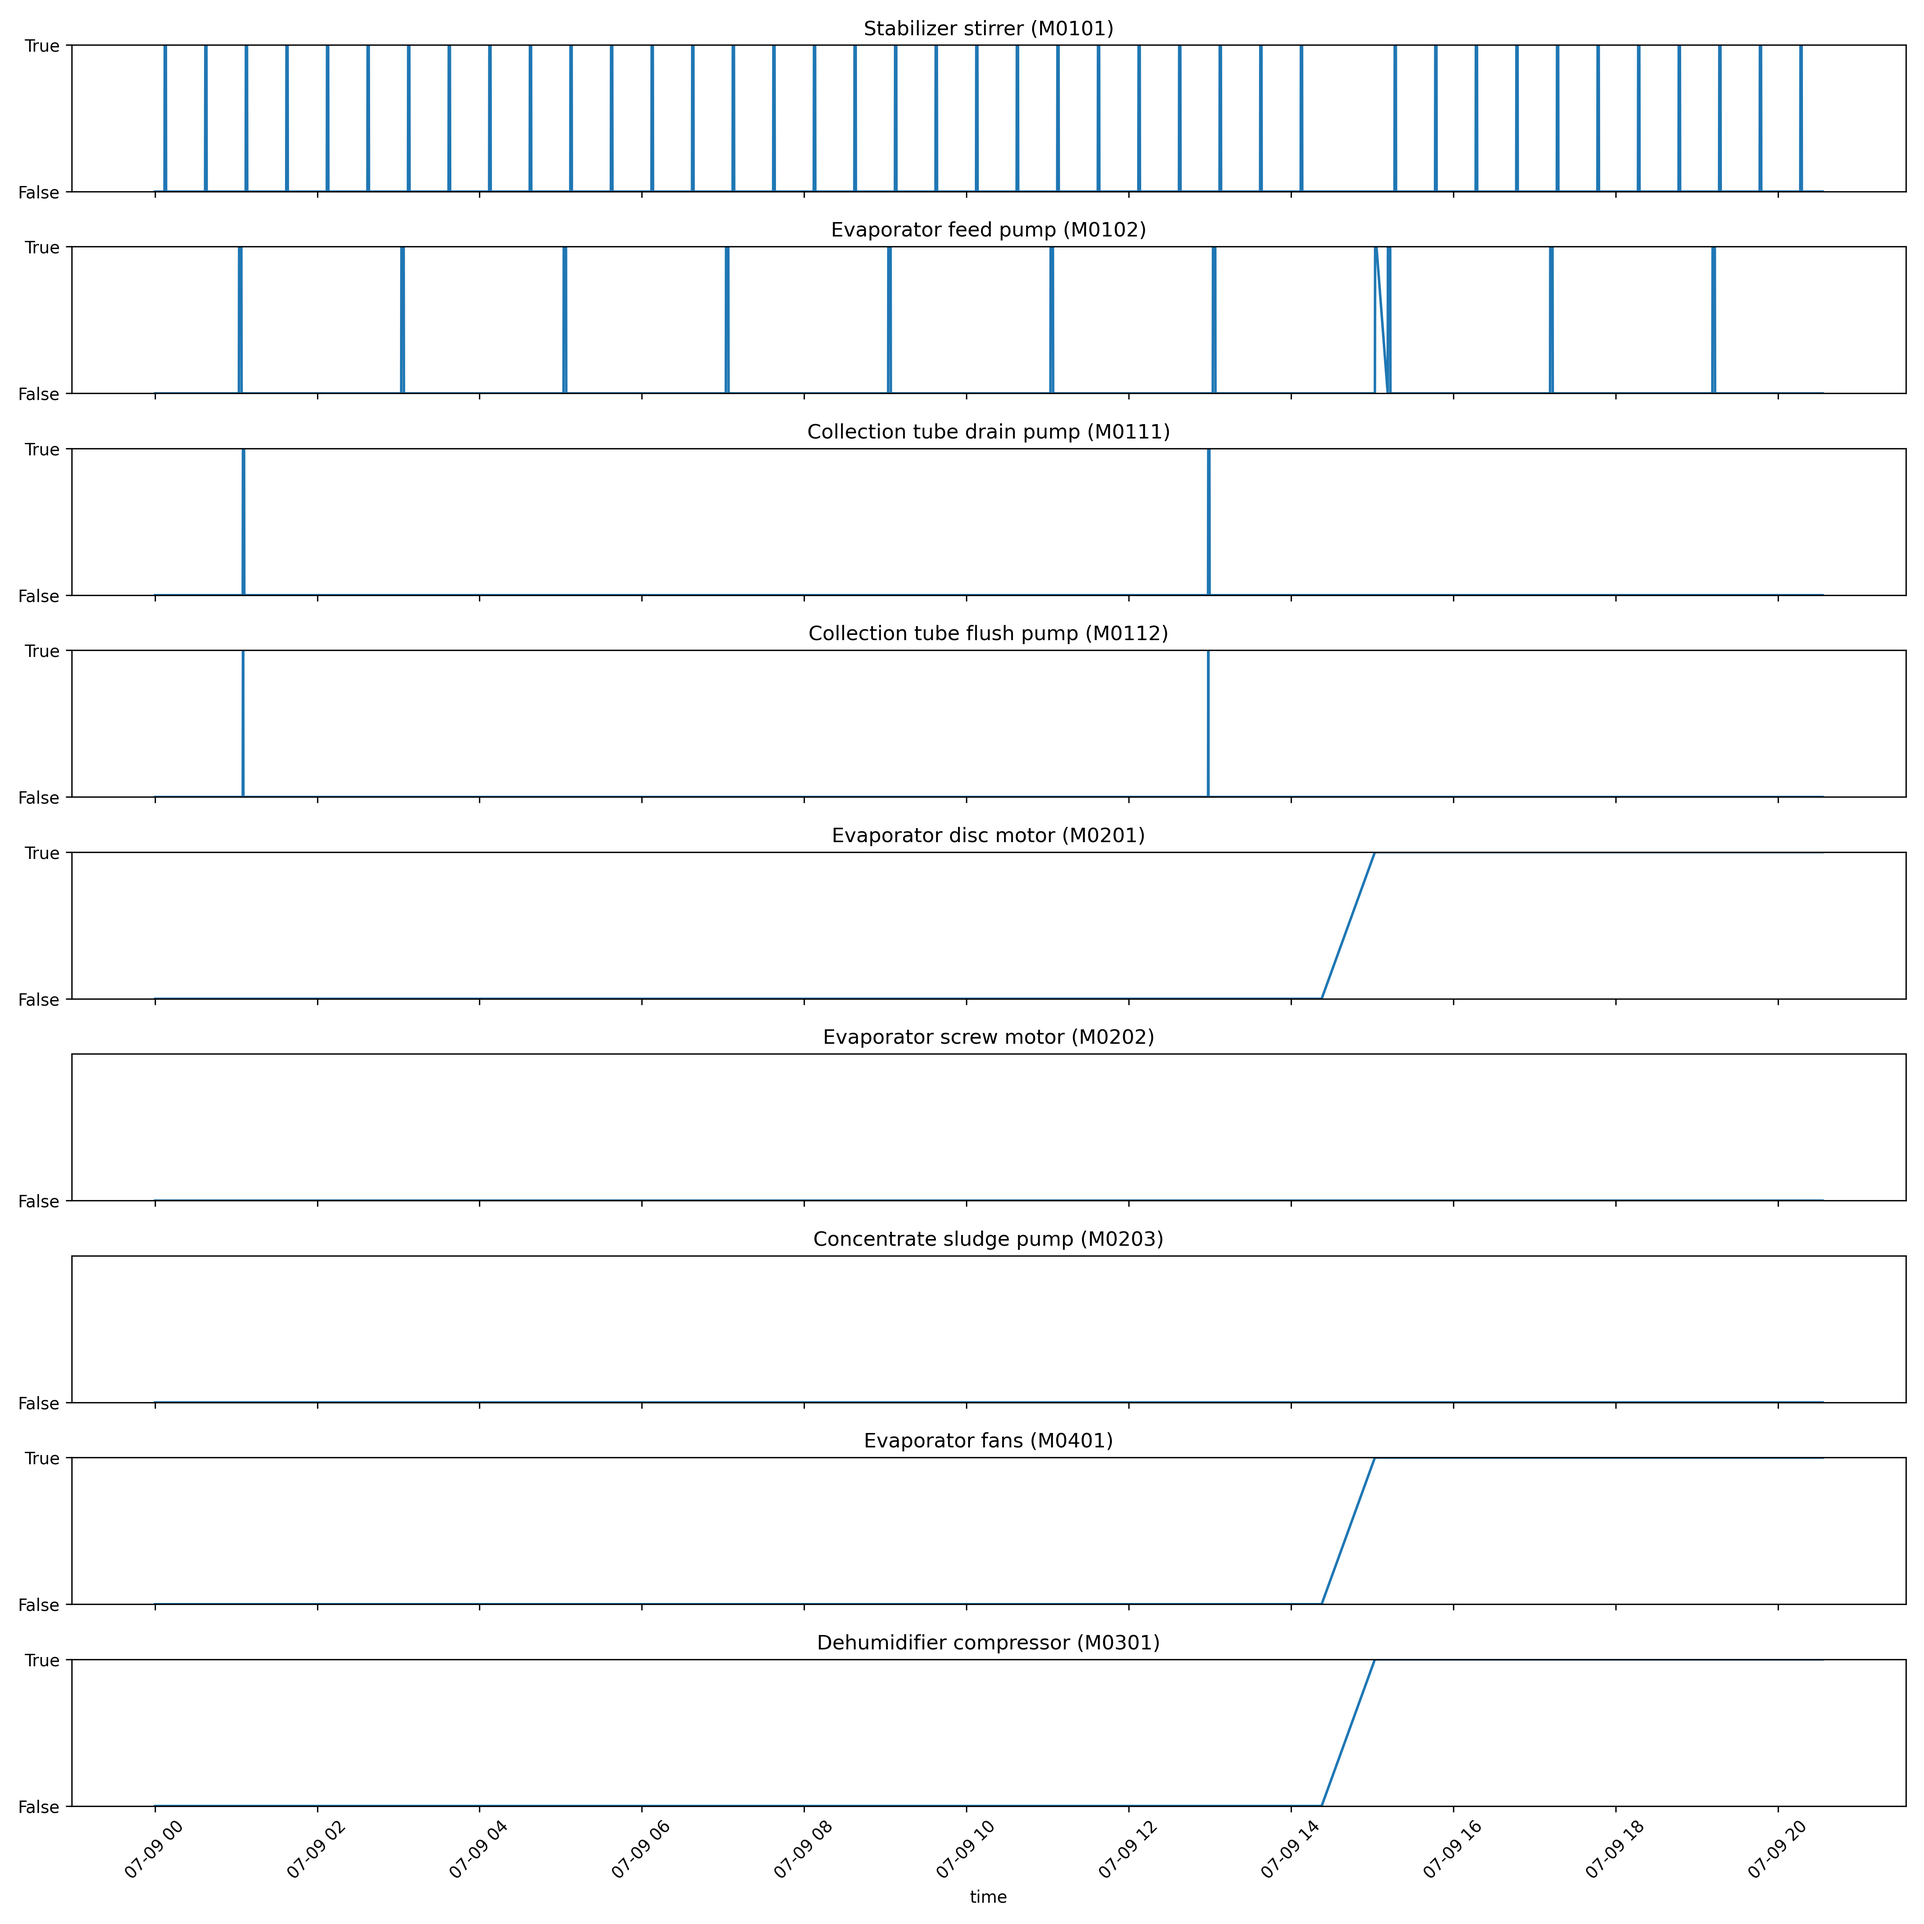
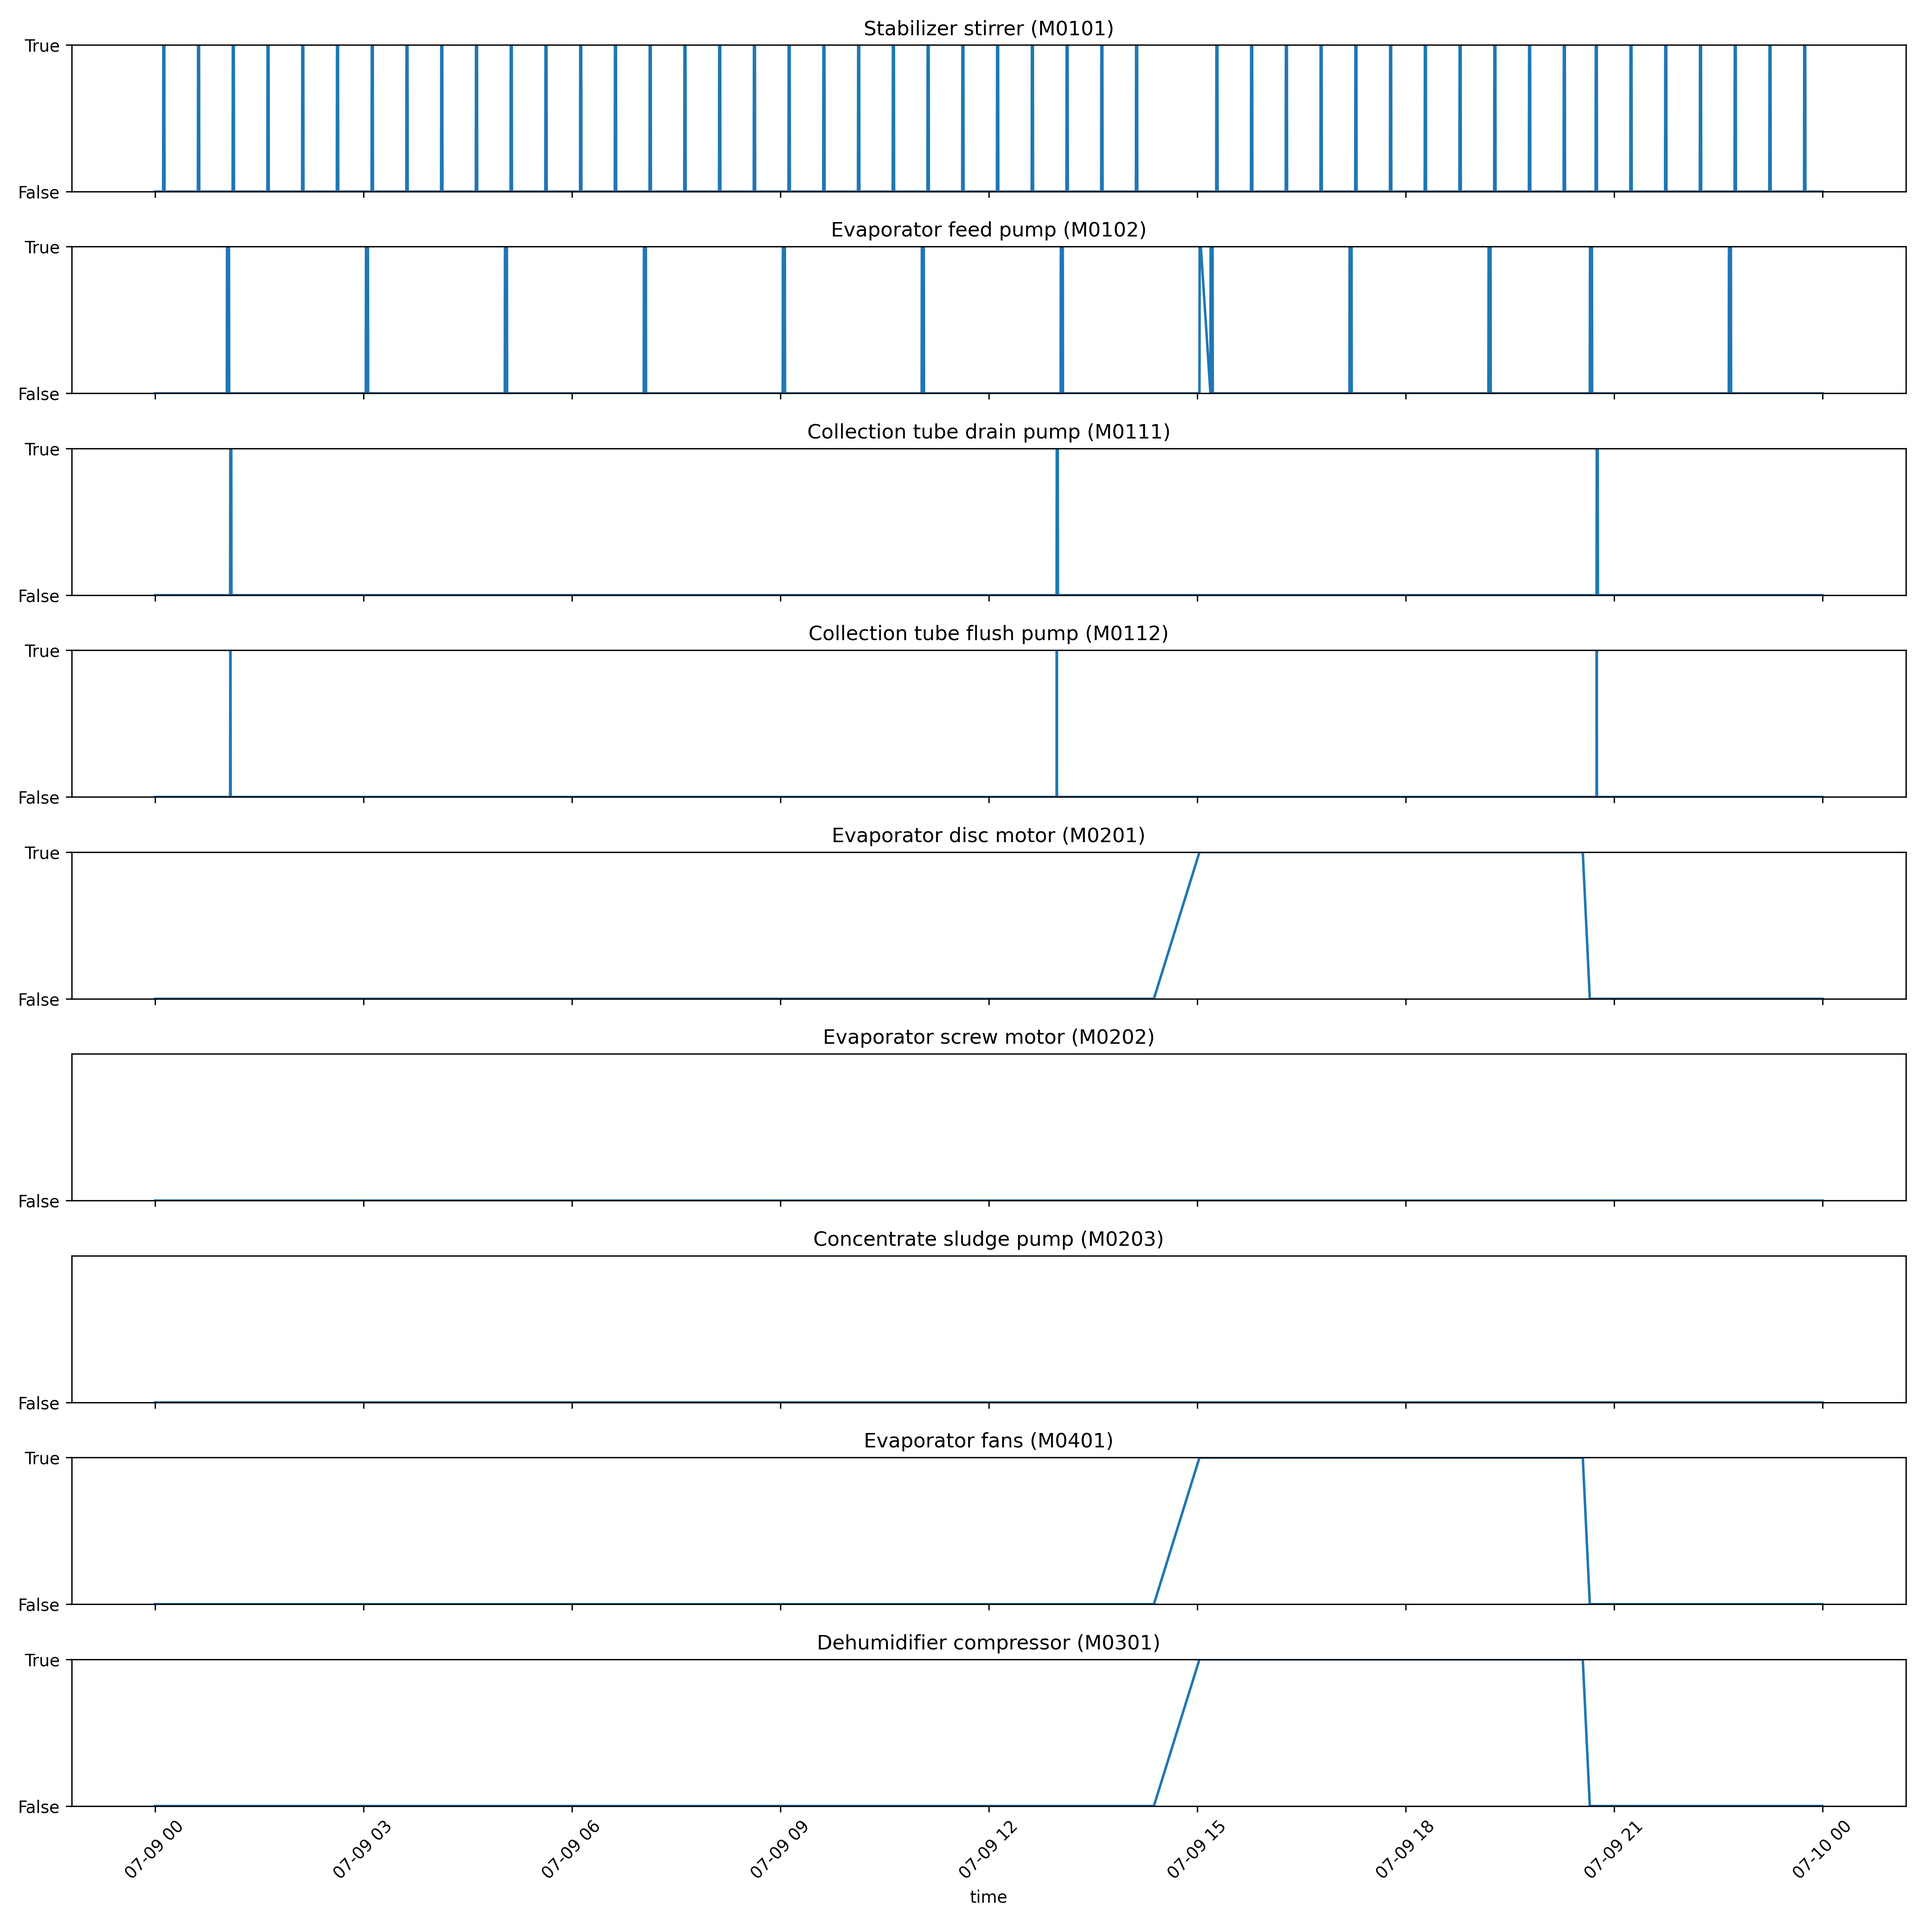
added duty cycle for evaporation process

diff --git a/src/routines.py b/src/routines.py
@@ -51,6 +51,9 @@ class routines:
         self.evaporation_running           = False
         self.concentrate_discharge_running = False
 
+        # timer for evaporation duty cycle
+        self.evaporation_start_time = -1000.0
+
         # state tracker for observer
         self.observer_states = {}
 
@@ -383,6 +386,8 @@ class routines:
             # read up-to-date control parameters (do this here in case parameters have been changed in toml file during program run)
             pl = self.load_parameter_list()
             threshold_min_B0201 = float(pl.get("threshold_min_B0201"))
+            tau_M0201_runtime   = float(pl.get("tau_M0201_runtime"))
+            tau_M0201_interval = float(pl.get("tau_M0201_interval"))
 
             # get instance of required S&A
             act_M0201 = actuators[actuator_name_list.index("M0201")]
@@ -391,9 +396,12 @@ class routines:
             sen_B0201 = sensors[sensor_name_list.index("B0201")]
             sen_BM201 = sensors[sensor_name_list.index("BM201")]
 
-            current_runtime = time.time() - (self.start_time + self.initial_wait_time)
-            if sen_B0201.value > threshold_min_B0201 and not(self.evaporation_running):
-                # print(f"[Control] Evaporation process running at runtime: {current_runtime:.2f}s")
+            current_runtime = time.time() - self.evaporation_start_time
+            evap_duty_cycle = int(current_runtime/tau_M0201_runtime) % int(tau_M0201_interval/tau_M0201_runtime) == 0
+            if sen_B0201.value > threshold_min_B0201 and not(self.evaporation_running) and evap_duty_cycle:
+
+                # start timer for evaporation duty cycle
+                self.evaporation_start_time = time.time()
 
                 # Turn actuators ON (depending on over-current management settings)
                 if sen_BM201.value == False:
@@ -412,7 +420,7 @@ class routines:
                 print("Evaporation process started")
 
             # hysteresis control for turning evaporation off to avoid state flickering
-            elif sen_B0201.value < threshold_min_B0201 - 1.0 and self.evaporation_running:
+            elif (sen_B0201.value < threshold_min_B0201 - 1.0 and self.evaporation_running) or not(evap_duty_cycle):
 
                 # Turn actuators OFF
                 act_M0201.set_state(False) # disc motor

diff --git a/main_NH-25_noGUI.py b/main_NH-25_noGUI.py
@@ -38,6 +38,7 @@ def main():
     start_time = time.time()
     routines_ = routines(start_time, "parameters.toml", "log_file.csv")
     routines_.add_log_file_entry('program_run', 1)
+    print("\n Program started")
 
     # Create threads for all parallel tasks
     threads = []
@@ -62,7 +63,9 @@ def main():
             time.sleep(1)  # Main thread is waiting, keeping the program running
     except KeyboardInterrupt:
         routines_.add_log_file_entry('program_run',0)
+        print("\n Program stopped")
         routines_.handle_shutdown(pxt)
+        
     
     # Wait for threads to finish
     for thread in threads:
